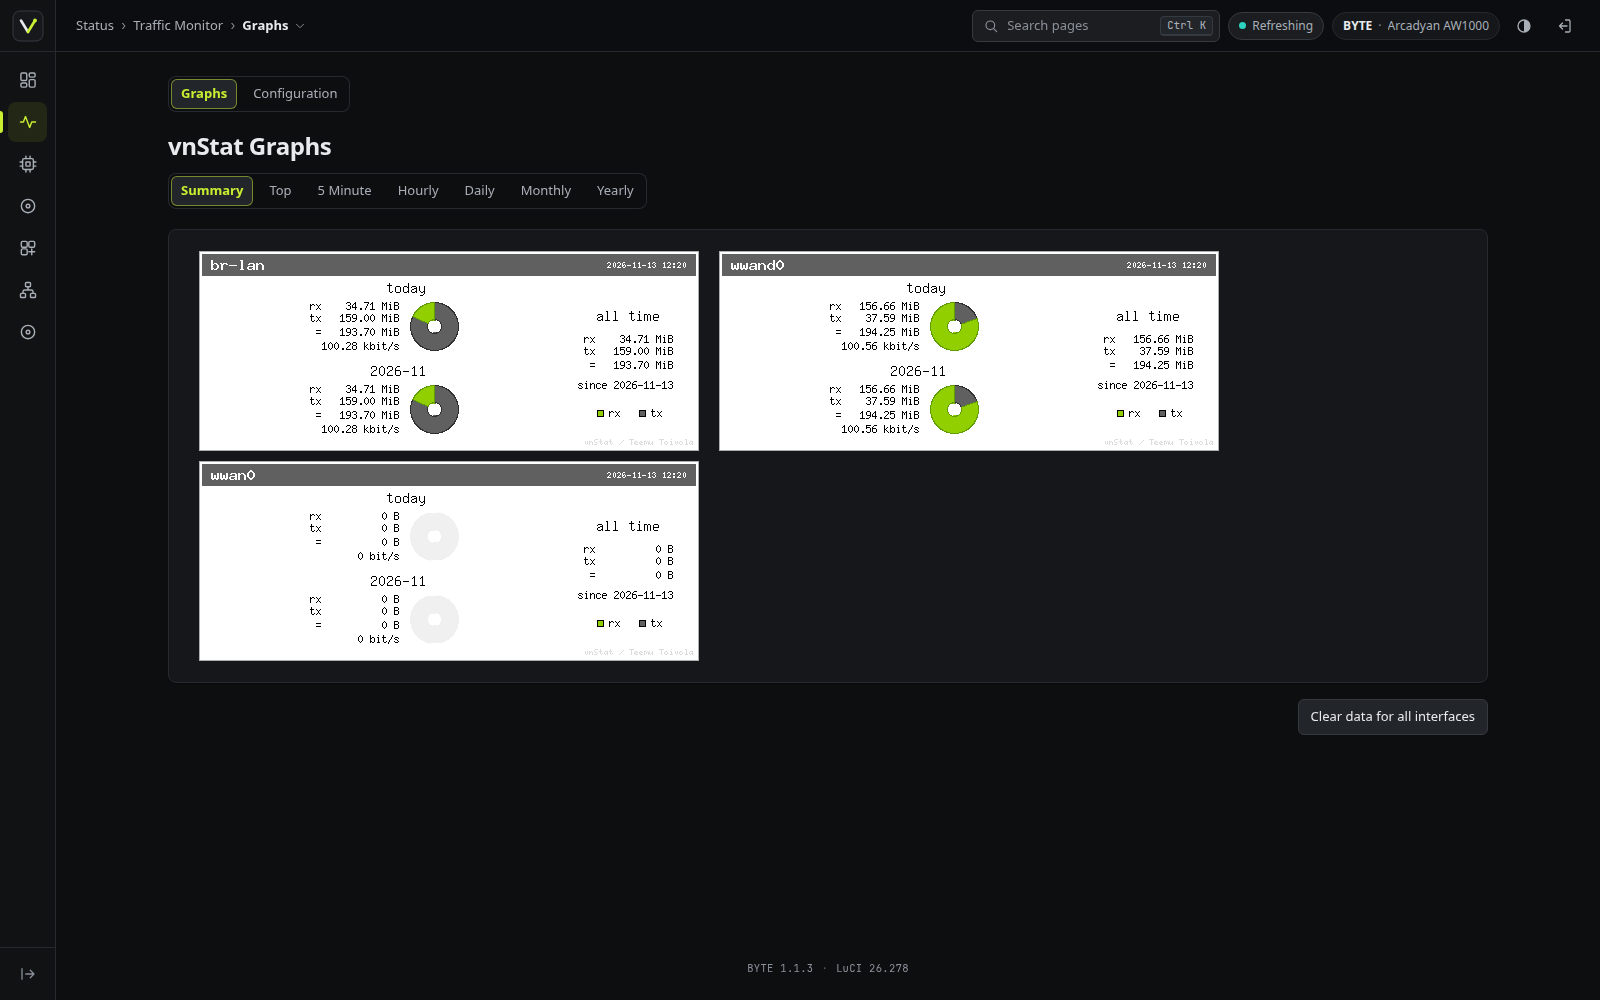
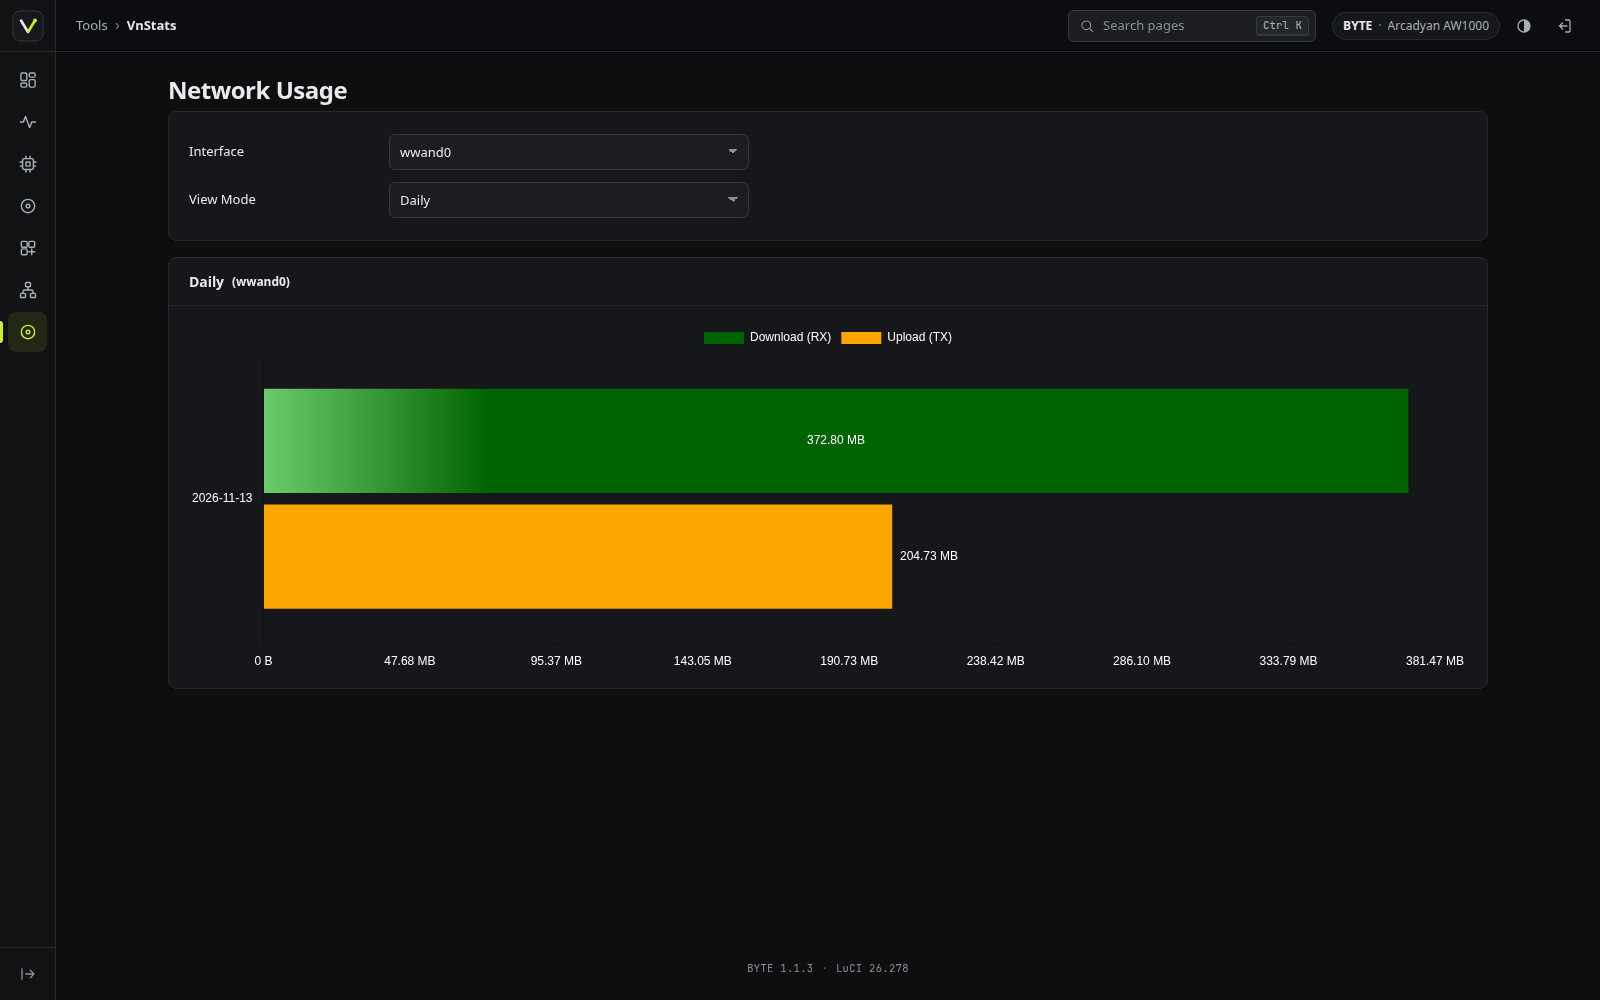
screenshots: replace vnstat capture with Tools -> VnStats page

diff --git a/docs/apps.md b/docs/apps.md
@@ -30,12 +30,6 @@ not scaled by 1024. vnStat 1.x still uses the KiB fallback.
 `sync` + `drop_caches` on demand, for when the page cache has eaten the box after
 a big download or a 9Router install.
 
-### Status → Traffic Monitor
-
-vnStat 2.13 graphs: summary, top talkers, 5-minute, hourly, daily, monthly,
-yearly, per interface (`wwand0`, `br-lan`, radios). Clear-data button included.
-The page is hidden behind a marker file by default; see [Hiding pages](#hiding-pages).
-
 ### Status → NSS Offload
 
 Offload counters: ECM accelerated flows, NSS core load, per-core queue
@@ -206,6 +200,11 @@ flow dies in ~2 ms. With RA advertising that prefix, browsers tried AAAA first,
 failed, then retried over IPv4 — pages loaded, not instantly. When your carrier
 routes the prefix, flip this switch.
 
+### Tools → VnStats
+
+vnStat 2.13 traffic graphs. Pick the interface (`br-lan`, `wwan0`, `wwand0`) and
+the view (daily or monthly); the charts render inline, so no external image.
+
 ### Tools → 9Router
 
 Local LLM gateway: install from the page, service state, node list and request
@@ -232,18 +231,6 @@ Root password, SSH access, hostname, timezone. Timezone defaults to
 `Asia/Kuala_Lumpur` (`<+08>-8`, `zonename=Asia/Kuala_Lumpur`).
 
 ---
-
-## Hidden pages
-
-`Status → Traffic Monitor` is hidden unless the marker file exists:
-
-```sh
-touch /etc/aw1000/show-vnstat2
-rm -f /tmp/luci-indexcache*      # LuCI caches the menu
-```
-
-Remove the file to hide it again. The marker is checked by
-`/usr/share/luci/menu.d/zz-aw1000-hide-vnstat2.json`.
 
 ## After an upgrade
 

diff --git a/README.md b/README.md
@@ -104,11 +104,10 @@ Local LLM gateway: install, service state, node list and request graphs.
 
 ![9Router](docs/screenshots/9router.png)
 
-### Status → Traffic Monitor
+### Tools → VnStats
 
-vnStat 2.13 graphs — summary, top talkers, 5-minute, hourly, daily, monthly and
-yearly, per interface. The page is hidden behind a marker file by default; see
-[docs/apps.md](docs/apps.md#hidden-pages).
+vnStat 2.13 usage graphs — daily, monthly, per interface selectable from the
+page (`br-lan`, `wwan0`, `wwand0`).
 
 ![vnStat graphs](docs/screenshots/vnstat.png)
 
